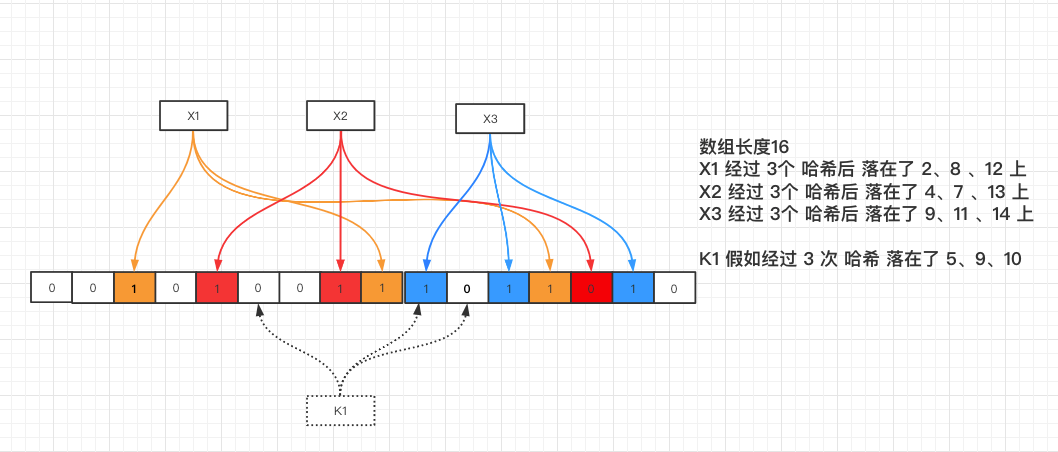
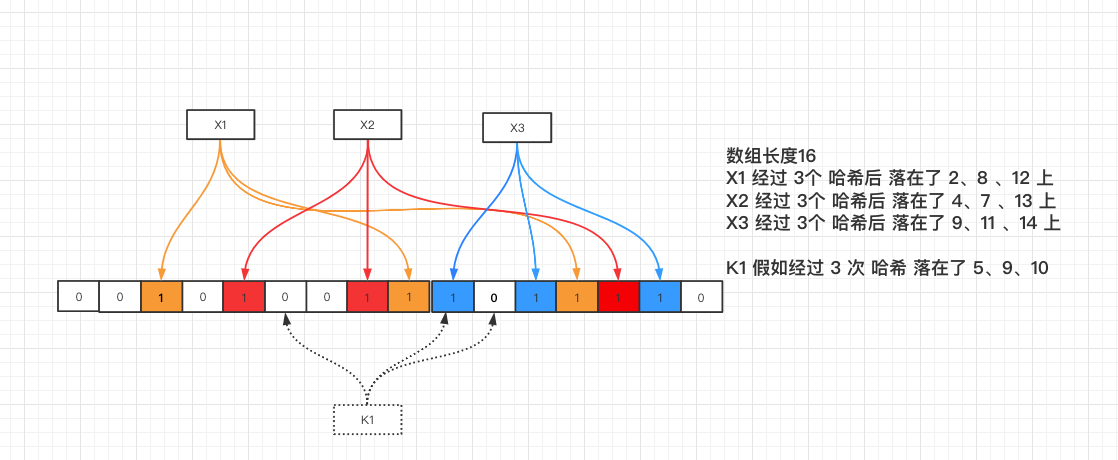
feat: counting bloom filter PinkHello/pinkhello.github.io.source@05f4c8a665fcc839fb12e6923e5e09ffa7aea817

diff --git a/posts/算法-bitmap/index.html b/posts/算法-bitmap/index.html
@@ -33,7 +33,7 @@ PinkHello, All Rights Reserved</div></div><div ref=extraContainer class=extra-co
 &nbsp;
 <i class=material-icons>schedule</i>
 9 min
-18 s.</div></div></div><div class=post-body-wrapper><div class=post-body v-pre><h1 id=bitmap-原理>bitmap 原理</h1><p><code>bitmap</code>字面为位图映射, 原理是使用一个 bit 标记某个元素对应的 value，而 key 即该元素。因为只有一个 bit 来存储一个数据, 因而可以大大的节省空间。</p><h2 id=数值映射>数值映射:</h2><p><img src=/%E7%AE%97%E6%B3%95-Bitmap/bitmap-001.png alt=数字bitmao></p><blockquote><p>假如对 0-31 个内的3个元素（10, 17, 28）进行排序,可以采用 <code>BitMap</code> 方法, 如下图, 对应的包含的位置将对应的值从 <code>0</code> 变更为 <code>1</code>
+31 s.</div></div></div><div class=post-body-wrapper><div class=post-body v-pre><h1 id=bitmap-原理>bitmap 原理</h1><p><code>bitmap</code>字面为位图映射, 原理是使用一个 bit 标记某个元素对应的 value，而 key 即该元素。因为只有一个 bit 来存储一个数据, 因而可以大大的节省空间。</p><h2 id=数值映射>数值映射:</h2><p><img src=/%E7%AE%97%E6%B3%95-Bitmap/bitmap-001.png alt=数字bitmao></p><blockquote><p>假如对 0-31 个内的3个元素（10, 17, 28）进行排序,可以采用 <code>BitMap</code> 方法, 如下图, 对应的包含的位置将对应的值从 <code>0</code> 变更为 <code>1</code>
 假如需要进行排序和检索，只需要依次遍历这个数据结构，碰到 <code>1</code> 的情况，数据存在</p></blockquote><h2 id=字符串映射>字符串映射:</h2><p><img src=/%E7%AE%97%E6%B3%95-Bitmap/bitmap-str.png alt=字符串bitmao></p><blockquote><p>字符串也可映射，只不过需要经过一个<code>Hash</code>步骤,通过映射关系可以判断字符串是否存在。但是因为 <code>Hash</code>是将不确定长度的值变更为确定大小的值,存在<code>Hash</code>冲突性，所以一般要最大化的判断一个字符串是否真的存在，可以将这个字符串经过不同的<code>Hash</code>函数映射不同的位置。</p></blockquote><h2 id=bitmap-的-建立查找添加删除判断-原理>bitmap 的 建立、查找、添加、删除、判断 原理</h2><h3 id=建立>建立</h3><p>Bitmap 的创建可以使用 byte 数组， <code>1 byte = 8 bit </code>(也可使用 int 数组, <code>1 int = 32 bit</code>, long 数组, <code>1 long = 64 bit</code>)
 也就是说到最后的数据的大小建立只需要创建 数组长度为
 <code>int[ 1 + N/32 ]</code> <code>byte[ 1 + N/8 ]</code> <code>long[ 1 + N/64 ]</code>
@@ -49,7 +49,7 @@ arr[0] = arr[0] | (<span style=color:#b452cd>1</span> &lt;&lt; 5)
 arr[0] = arr[0] &amp; (~(<span style=color:#b452cd>1</span> &lt;&lt; 5))
 </code></pre></div><h3 id=判断>判断</h3><p>借助 <code>查找</code> 做定位，然后判断 当前位上的值是 <code>0</code> 还是 <code>1</code> 来达到判断的目的</p><h1 id=bitmap-应用>bitmap 应用</h1><h2 id=大数据量快速排序>大数据量快速排序</h2><h2 id=大数据量快速去重>大数据量快速去重</h2><h2 id=大数据量快速查找>大数据量快速查找</h2><h1 id=bitmap-的缺点-和-拓展>bitmap 的缺点 和 拓展</h1><p>bitmap 的缺点还是有的 :</p><ul><li>数据碰撞<div class=highlight><pre style=background-color:#eed;-moz-tab-size:4;-o-tab-size:4;tab-size:4><code class=language-shell data-lang=shell>字符串映射到 <span style=color:#cd5555>`</span>bitmap<span style=color:#cd5555>`</span>会有碰撞问题.
 </code></pre></div></li><li>数据稀松<div class=highlight><pre style=background-color:#eed;-moz-tab-size:4;-o-tab-size:4;tab-size:4><code class=language-shell data-lang=shell>比如要存入<span style=color:#cd5555>`</span>(1,88888888,3333)<span style=color:#cd5555>`</span>这三条数据, 我们要建立<span style=color:#cd5555>`</span>99999999<span style=color:#cd5555>`</span>长度的 <span style=color:#cd5555>`</span>bitmap<span style=color:#cd5555>`</span>,但实际上只存储了3条数据,浪费了空间.
-</code></pre></div></li></ul><h2 id=碰撞问题-bloom-filterhttpszhwikipediaorgwikie5b883e99a86e8bf87e6bba4e599a8-和-counting-bloom-filter>(碰撞问题) <a href=https://zh.wikipedia.org/wiki/%E5%B8%83%E9%9A%86%E8%BF%87%E6%BB%A4%E5%99%A8>Bloom Filter</a> 和 Counting Bloom Filter</h2><blockquote><p>将任意大小的数据转换成特定大小的数据的函数.转换后的数据称为哈希值或哈希编码</p></blockquote><p><img src=/%E7%AE%97%E6%B3%95-Bitmap/bitmap-hash.png alt=hash></p><ul><li>哈希函数是实现哈希表和布隆过滤器的基础</li></ul><h3 id=bloom-filter>Bloom Filter</h3><p><img src=/%E7%AE%97%E6%B3%95-Bitmap/bitmap-bloom-filter.png alt=hash></p><ul><li><code>K1</code> 经过 <code>3次</code> <code>Hash</code> 落在地 <code>5</code>、<code>9</code>、<code>10</code> 上</li><li><code>X3</code> 经过 <code>3次</code> <code>Hash</code> 落在 <code>9</code>、<code>11</code>、<code>14</code></li><li>可以看出重叠点在 <code>9</code> 上, 所以存在一定的误判</li></ul><h3 id=counting-bloom-filter>Counting Bloom Filter</h3><h2 id=稀松问题-roaring-bitmaphttpsgithubcomroaringbitmaproaringbitmap>(稀松问题) <a href=https://github.com/RoaringBitmap/RoaringBitmap>Roaring BitMap</a></h2><ul><li><code>RoaringBitmap</code> 算法是将 <code>32</code> 位 的 int 类型数据划分位 <code>2^16</code> 个数据块，每个数据快对应整数的 <code>高16位</code>，并使用一个容器（<code>Container</code>）来存放数值的低16位。</li><li><code>RoaringBitmap</code> 将这些 <code>Container</code> 保存在一个动态数组中作为一级索引。</li><li><code>RoaringBitmap</code> 的 Container 分类有 Array Container 和 Bitmap Container。 <code>Array Container</code> 存放稀疏数据, <code>Bitmap Container</code> 存放稠密数据 (如果一个 <code>Container</code> 的整数数量小于<code>4096</code>，就用数组容器,若大于<code>4096</code>就用位图容器)。</li></ul><h3 id=roaring-bitmap-存储结构>Roaring BitMap 存储结构</h3><p><img src=/%E7%AE%97%E6%B3%95-Bitmap/roaring-bitmap-001.png alt="Roaring BitMap"></p><ul><li>高16位为 <code>0000H</code> 的 container，存储有前 <code>1000个62</code> 的倍数。</li><li>高16位为 <code>0001H</code> 的 container，存储有 <code>[2^16, 2^16+100)</code> 区间内的 <code>100</code> 个数。</li><li>高16位为 <code>0002H</code> 的 container，存储有 <code>[2×2^16, 3×2^16)</code> 区间内的所有偶数，共<code>2^15</code>个。</li></ul><p>RoaringBitmap 结构</p><div class=highlight><pre style=background-color:#eed;-moz-tab-size:4;-o-tab-size:4;tab-size:4><code class=language-java data-lang=java><span style=color:#00688b;font-weight:700>short</span>[] keys; 
+</code></pre></div></li></ul><h2 id=碰撞问题-bloom-filterhttpszhwikipediaorgwikie5b883e99a86e8bf87e6bba4e599a8-和-counting-bloom-filter>(碰撞问题) <a href=https://zh.wikipedia.org/wiki/%E5%B8%83%E9%9A%86%E8%BF%87%E6%BB%A4%E5%99%A8>Bloom Filter</a> 和 Counting Bloom Filter</h2><blockquote><p>将任意大小的数据转换成特定大小的数据的函数.转换后的数据称为哈希值或哈希编码</p></blockquote><p><img src=/%E7%AE%97%E6%B3%95-Bitmap/bitmap-hash.png alt=hash></p><ul><li>哈希函数是实现哈希表和布隆过滤器的基础</li></ul><h3 id=bloom-filter>Bloom Filter</h3><p><img src=/%E7%AE%97%E6%B3%95-Bitmap/bitmap-bloom-filter.png alt=hash></p><ul><li><code>K1</code> 经过 <code>3次</code> <code>Hash</code> 落在地 <code>5</code>、<code>9</code>、<code>10</code> 上</li><li><code>X3</code> 经过 <code>3次</code> <code>Hash</code> 落在 <code>9</code>、<code>11</code>、<code>14</code></li><li>可以看出重叠点在 <code>9</code> 上, 所以存在一定的误判</li></ul><h3 id=counting-bloom-filter>Counting Bloom Filter</h3><p><img src=/%E7%AE%97%E6%B3%95-Bitmap/bitmap-counting-bloom-filter.png alt=hash></p><ul><li>为了解决 <code>bloom filter</code> 无法删除的问题</li><li>比正常的 <code>bloom filter</code> 加入了对 位的计数器</li><li>当发生删除动作的时候，对应位置的<code>计数器-1</code></li></ul><h2 id=稀松问题-roaring-bitmaphttpsgithubcomroaringbitmaproaringbitmap>(稀松问题) <a href=https://github.com/RoaringBitmap/RoaringBitmap>Roaring BitMap</a></h2><ul><li><code>RoaringBitmap</code> 算法是将 <code>32</code> 位 的 int 类型数据划分位 <code>2^16</code> 个数据块，每个数据快对应整数的 <code>高16位</code>，并使用一个容器（<code>Container</code>）来存放数值的低16位。</li><li><code>RoaringBitmap</code> 将这些 <code>Container</code> 保存在一个动态数组中作为一级索引。</li><li><code>RoaringBitmap</code> 的 Container 分类有 Array Container 和 Bitmap Container。 <code>Array Container</code> 存放稀疏数据, <code>Bitmap Container</code> 存放稠密数据 (如果一个 <code>Container</code> 的整数数量小于<code>4096</code>，就用数组容器,若大于<code>4096</code>就用位图容器)。</li></ul><h3 id=roaring-bitmap-存储结构>Roaring BitMap 存储结构</h3><p><img src=/%E7%AE%97%E6%B3%95-Bitmap/roaring-bitmap-001.png alt="Roaring BitMap"></p><ul><li>高16位为 <code>0000H</code> 的 container，存储有前 <code>1000个62</code> 的倍数。</li><li>高16位为 <code>0001H</code> 的 container，存储有 <code>[2^16, 2^16+100)</code> 区间内的 <code>100</code> 个数。</li><li>高16位为 <code>0002H</code> 的 container，存储有 <code>[2×2^16, 3×2^16)</code> 区间内的所有偶数，共<code>2^15</code>个。</li></ul><p>RoaringBitmap 结构</p><div class=highlight><pre style=background-color:#eed;-moz-tab-size:4;-o-tab-size:4;tab-size:4><code class=language-java data-lang=java><span style=color:#00688b;font-weight:700>short</span>[] keys; 
 Container[] values;
 <span style=color:#00688b;font-weight:700>int</span> size;
 </code></pre></div><ul><li>每个<code>32位</code>的整形，<code>高16位</code>会被作为 <code>key</code> 存储到 <code>short[] keys</code> 中, <code>低16位</code>看作<code>value</code>存储到 <code>values</code> 中的某个 <code>Container</code> 中</li><li><code>keys</code> 和 <code>values</code> 通过下标一一对应</li><li><code>keys</code> 数组永远保证有序，方便二分查找</li><li><code>size</code> 标示了包含 <code>key-value pair</code> 的数量(即 <code>keys</code> 和 <code>values</code> 中有效数据的数量)</li></ul><h3 id=array-container>Array Container</h3><p>当桶内数据基数 <code>&lt; 4096</code> 的时候，采用它来存储, 数组初始长度伟为 <code>4</code> 随着数据增多会字段扩容, 最大长度为 <code>4096</code>。 在样例途中是 数组容器的 <code>size</code> 都没有超过半数 4096.</p><div class=highlight><pre style=background-color:#eed;-moz-tab-size:4;-o-tab-size:4;tab-size:4><code class=language-java data-lang=java><span style=color:#8b008b;font-weight:700>static</span> <span style=color:#8b008b;font-weight:700>final</span> <span style=color:#00688b;font-weight:700>int</span> DEFAULT_MAX_SIZE = 4096

diff --git a/tags/数据结构/index.html b/tags/数据结构/index.html
@@ -20,6 +20,6 @@ PinkHello, All Rights Reserved</div></div><div ref=extraContainer class=extra-co
 &emsp;
 <i class=material-icons style=font-size:10px>schedule</i>
 9 min
-18 s
+31 s
 &emsp;</div></div></div></div></a></div></div></div><div id=single-column-footer>Hugo Theme <a href=https://github.com/amazingrise/hugo-theme-diary>Diary</a> by <a href=https://amazingrise.net>Rise</a><br>移植自 <a href=https://mak1t0.cc/ target=_blank rel="noreferrer noopener">Makito</a>'s <a href=https://github.com/SumiMakito/hexo-theme-journal/ target=_blank rel="noreferrer noopener">Journal.</a><br><br>&copy;
 PinkHello, All Rights Reserved</div></div><script>let app;app=new Vue({el:'#app',data:{scrollY:0,navOpacity:0,isDrawerOpen:!1,mounted:!1,isDarkMode:!1},methods:{sgn(a,b){let c=1/(1-2*a);return b<=a?0:b>=1-a?1:c*(b-a)},handleScroll(){this.scrollY=window.scrollY,this.navOpacity=this.sgn(0,Math.min(1,Math.max(0,window.scrollY/(this.pageHeadHeight()-this.navBarHeight()*.8))));const{navBar:c,navBackground:a,navTitle:b,extraContainer:d,streamContainer:e}=this.$refs;this.navOpacity>=1?(a.style.opacity=1,b.style.opacity=1):(a.style.opacity=0,b.style.opacity=0)},handleResize(){const{navBar:c,navBackground:d,navTitle:e,extraContainer:a,streamContainer:b}=this.$refs;a.style.left=b.offsetWidth-a.offsetWidth+'px'},navBarHeight(){return this.$refs.navBar.offsetHeight},pageHeadHeight(){return this.$refs.pageHead.offsetHeight},toggleDrawer(){this.isDrawerOpen=!this.isDrawerOpen,document.getElementsByTagName('html')[0].style.overflow=this.isDrawerOpen?'hidden':'unset'},closeDrawer(){this.isDrawerOpen=!1,document.getElementsByTagName('html')[0].style.overflow=this.isDrawerOpen?'hidden':'unset'},toggleDarkMode(){this.isDarkMode=!this.isDarkMode,this.isDarkMode==!0?(document.cookie="night=1;path=/",document.body.classList.add("night")):(document.cookie="night=0;path=/",document.body.classList.remove("night"))}},created(){window.addEventListener('scroll',this.handleScroll),window.addEventListener('resize',this.handleResize),window._nonDesktop=function(){let a=!1;return function(b){(/(android|bb\d+|meego).+mobile|avantgo|bada\/|blackberry|blazer|compal|elaine|fennec|hiptop|iemobile|ip(hone|od)|iris|kindle|lge |maemo|midp|mmp|mobile.+firefox|netfront|opera m(ob|in)i|palm( os)?|phone|p(ixi|re)\/|plucker|pocket|psp|series(4|6)0|symbian|treo|up\.(browser|link)|vodafone|wap|windows ce|xda|xiino|android|ipad|playbook|silk/i.test(b)||/1207|6310|6590|3gso|4thp|50[1-6]i|770s|802s|a wa|abac|ac(er|oo|s\-)|ai(ko|rn)|al(av|ca|co)|amoi|an(ex|ny|yw)|aptu|ar(ch|go)|as(te|us)|attw|au(di|\-m|r |s )|avan|be(ck|ll|nq)|bi(lb|rd)|bl(ac|az)|br(e|v)w|bumb|bw\-(n|u)|c55\/|capi|ccwa|cdm\-|cell|chtm|cldc|cmd\-|co(mp|nd)|craw|da(it|ll|ng)|dbte|dc\-s|devi|dica|dmob|do(c|p)o|ds(12|\-d)|el(49|ai)|em(l2|ul)|er(ic|k0)|esl8|ez([4-7]0|os|wa|ze)|fetc|fly(\-|_)|g1 u|g560|gene|gf\-5|g\-mo|go(\.w|od)|gr(ad|un)|haie|hcit|hd\-(m|p|t)|hei\-|hi(pt|ta)|hp( i|ip)|hs\-c|ht(c(\-| |_|a|g|p|s|t)|tp)|hu(aw|tc)|i\-(20|go|ma)|i230|iac( |\-|\/)|ibro|idea|ig01|ikom|im1k|inno|ipaq|iris|ja(t|v)a|jbro|jemu|jigs|kddi|keji|kgt( |\/)|klon|kpt |kwc\-|kyo(c|k)|le(no|xi)|lg( g|\/(k|l|u)|50|54|\-[a-w])|libw|lynx|m1\-w|m3ga|m50\/|ma(te|ui|xo)|mc(01|21|ca)|m\-cr|me(rc|ri)|mi(o8|oa|ts)|mmef|mo(01|02|bi|de|do|t(\-| |o|v)|zz)|mt(50|p1|v )|mwbp|mywa|n10[0-2]|n20[2-3]|n30(0|2)|n50(0|2|5)|n7(0(0|1)|10)|ne((c|m)\-|on|tf|wf|wg|wt)|nok(6|i)|nzph|o2im|op(ti|wv)|oran|owg1|p800|pan(a|d|t)|pdxg|pg(13|\-([1-8]|c))|phil|pire|pl(ay|uc)|pn\-2|po(ck|rt|se)|prox|psio|pt\-g|qa\-a|qc(07|12|21|32|60|\-[2-7]|i\-)|qtek|r380|r600|raks|rim9|ro(ve|zo)|s55\/|sa(ge|ma|mm|ms|ny|va)|sc(01|h\-|oo|p\-)|sdk\/|se(c(\-|0|1)|47|mc|nd|ri)|sgh\-|shar|sie(\-|m)|sk\-0|sl(45|id)|sm(al|ar|b3|it|t5)|so(ft|ny)|sp(01|h\-|v\-|v )|sy(01|mb)|t2(18|50)|t6(00|10|18)|ta(gt|lk)|tcl\-|tdg\-|tel(i|m)|tim\-|t\-mo|to(pl|sh)|ts(70|m\-|m3|m5)|tx\-9|up(\.b|g1|si)|utst|v400|v750|veri|vi(rg|te)|vk(40|5[0-3]|\-v)|vm40|voda|vulc|vx(52|53|60|61|70|80|81|83|85|98)|w3c(\-| )|webc|whit|wi(g |nc|nw)|wmlb|wonu|x700|yas\-|your|zeto|zte\-/i.test(b.substr(0,4)))&&(a=!0)}(navigator.userAgent||navigator.vendor||window.opera),a};var a=document.cookie.replace(/(?:(?:^|.*;\s*)night\s*\=\s*([^;]*).*$)|^.*$/,"$1");a==""?window.matchMedia&&window.matchMedia('(prefers-color-scheme: dark)').matches:a=="1"&&this.toggleDarkMode()},mounted(){this.handleScroll(),this.handleResize(),this.mounted=!0},destroyed(){window.removeEventListener('scroll',this.handleScroll),window.removeEventListener('resize',this.handleResize)}})</script><script src=https://pinkhello.me//js/journal.js></script></body></html>

diff --git a/index.html b/index.html
@@ -20,7 +20,7 @@ PinkHello, All Rights Reserved</div></div><div ref=extraContainer class=extra-co
 &emsp;
 <i class=material-icons style=font-size:10px>schedule</i>
 9 min
-18 s
+31 s
 &emsp;</div></div></div></div><a href=https://pinkhello.me/posts/23-%E5%9B%9E%E6%9C%9Bk8s-%E5%AE%B9%E5%99%A8%E7%BD%91%E7%BB%9C/ class=a-block><div class=post-item-wrapper><div class="post-item post-item-no-divider"><div class=post-item-info-wrapper><div class=post-item-title>23 回望K8S 容器网络</div><div class=post-item-summary></div><div class=post-item-meta>2021-03-21
 &emsp;
 <i class=material-icons style=font-size:10px>schedule</i>

diff --git a/categories/算法/index.html b/categories/算法/index.html
@@ -20,7 +20,7 @@ PinkHello, All Rights Reserved</div></div><div ref=extraContainer class=extra-co
 &emsp;
 <i class=material-icons style=font-size:10px>schedule</i>
 9 min
-18 s
+31 s
 &emsp;</div></div></div></div></a><a href=/posts/01-%E4%B8%80%E8%87%B4%E6%80%A7%E5%93%88%E5%B8%8C%E7%AE%97%E6%B3%95/ class=a-block><div class=post-item-wrapper><div class="post-item post-item-no-gaps"><div class=post-item-info-wrapper><div class=post-item-title>01 一致性哈希算法</div><div class=post-item-meta>2021-02-09
 &emsp;
 <i class=material-icons style=font-size:10px>schedule</i>

diff --git a/tags/算法/index.html b/tags/算法/index.html
@@ -20,7 +20,7 @@ PinkHello, All Rights Reserved</div></div><div ref=extraContainer class=extra-co
 &emsp;
 <i class=material-icons style=font-size:10px>schedule</i>
 9 min
-18 s
+31 s
 &emsp;</div></div></div></div></a><a href=/posts/01-%E4%B8%80%E8%87%B4%E6%80%A7%E5%93%88%E5%B8%8C%E7%AE%97%E6%B3%95/ class=a-block><div class=post-item-wrapper><div class="post-item post-item-no-gaps"><div class=post-item-info-wrapper><div class=post-item-title>01 一致性哈希算法</div><div class=post-item-meta>2021-02-09
 &emsp;
 <i class=material-icons style=font-size:10px>schedule</i>

diff --git a/posts/index.html b/posts/index.html
@@ -20,7 +20,7 @@ PinkHello, All Rights Reserved</div></div><div ref=extraContainer class=extra-co
 &emsp;
 <i class=material-icons style=font-size:10px>schedule</i>
 9 min
-18 s
+31 s
 &emsp;</div></div></div></div></a><a href=/posts/23-%E5%9B%9E%E6%9C%9Bk8s-%E5%AE%B9%E5%99%A8%E7%BD%91%E7%BB%9C/ class=a-block><div class=post-item-wrapper><div class="post-item post-item-no-gaps"><div class=post-item-info-wrapper><div class=post-item-title>23 回望K8S 容器网络</div><div class=post-item-meta>2021-03-21
 &emsp;
 <i class=material-icons style=font-size:10px>schedule</i>
